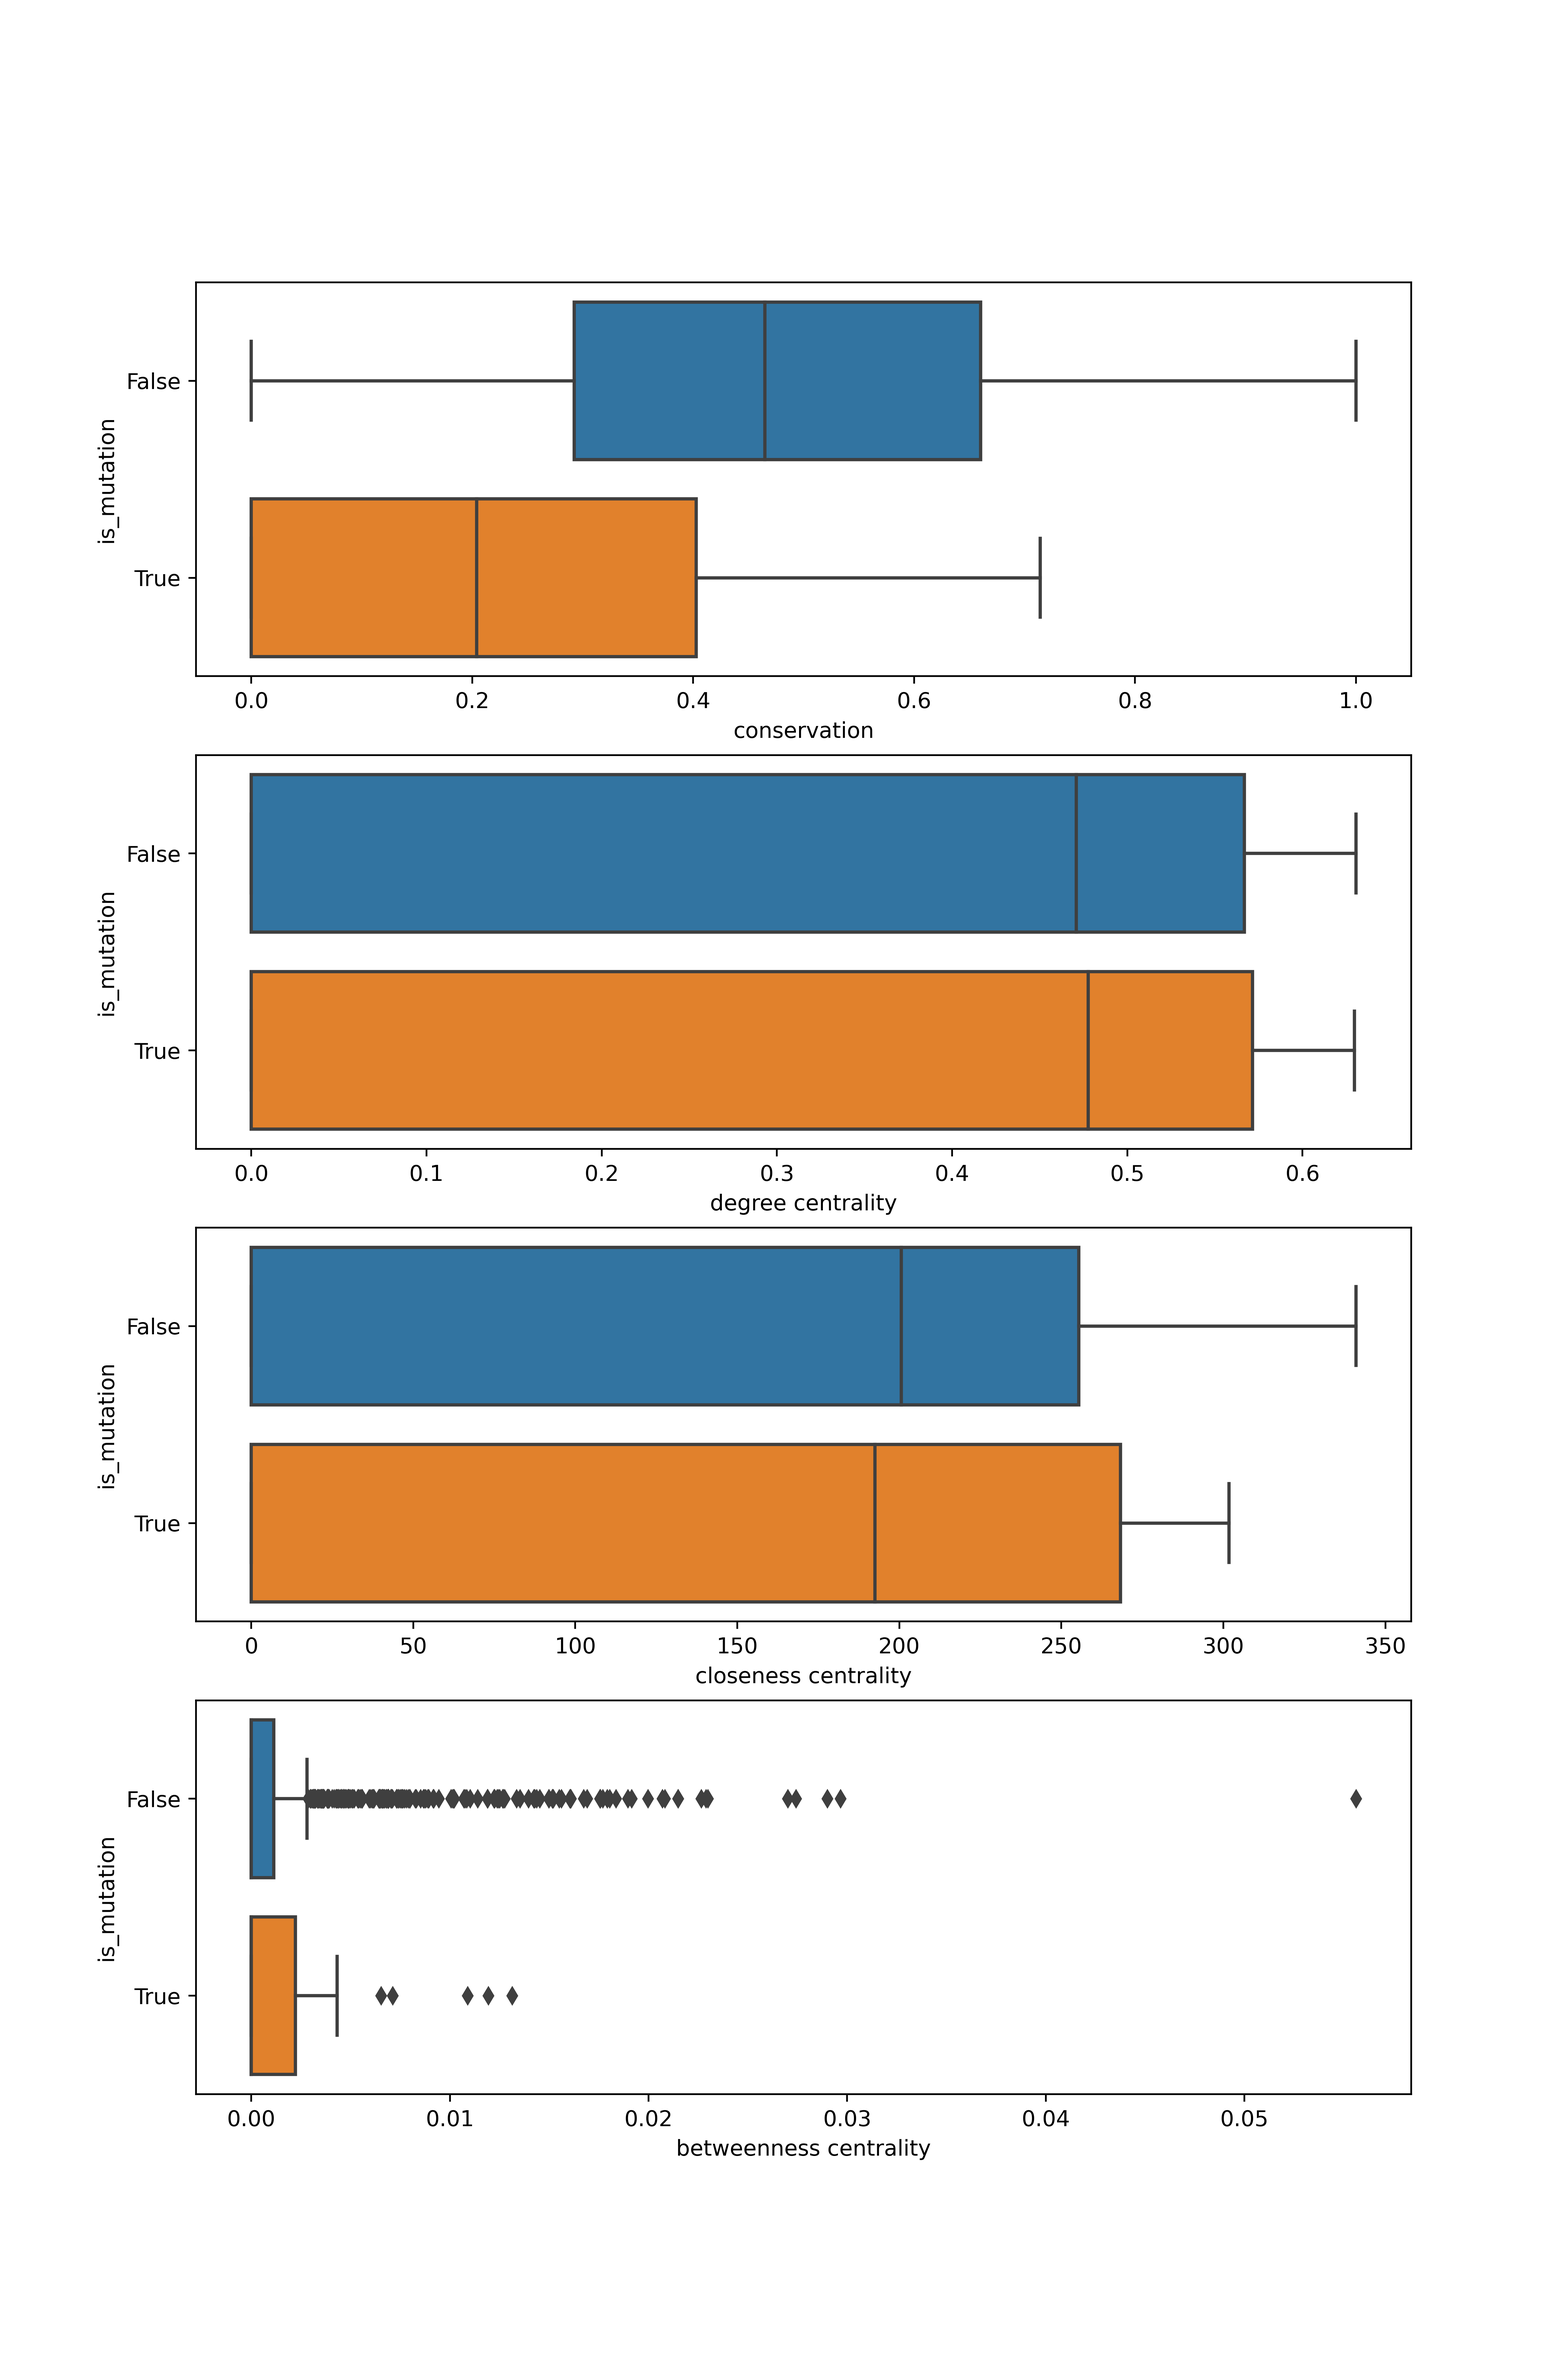
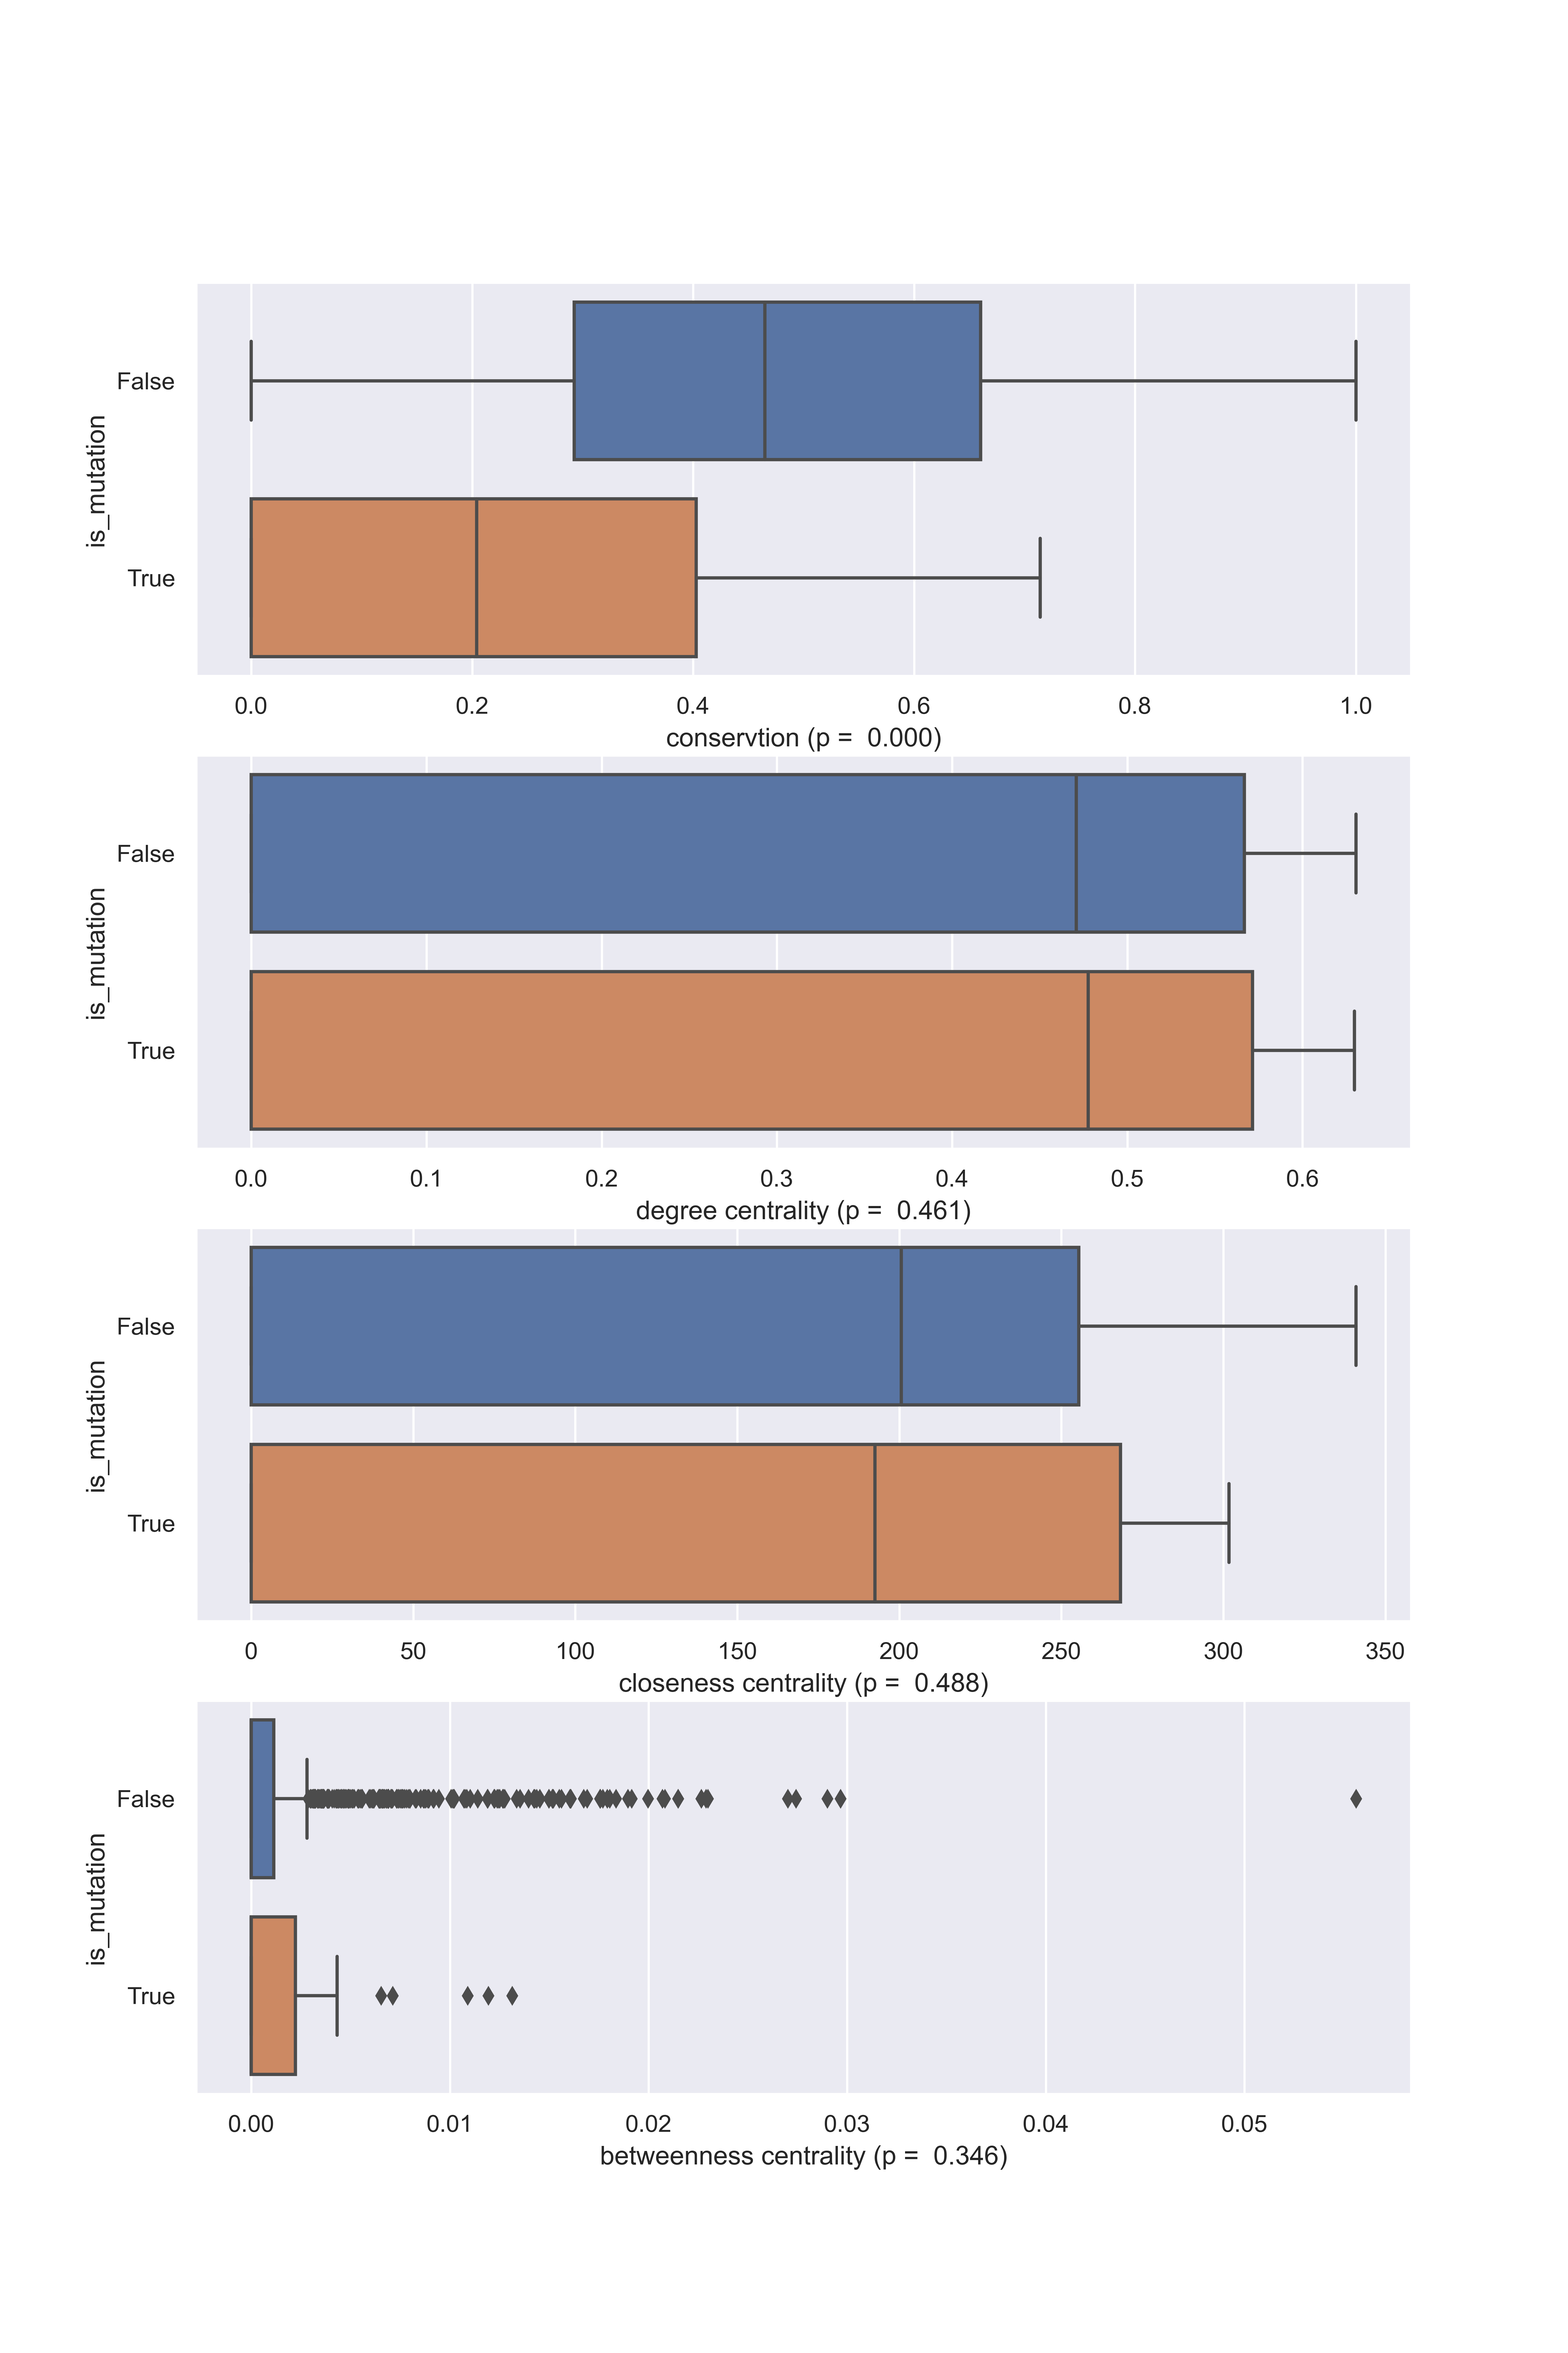
update

diff --git a/v2/output_procon_analysis.py b/v2/output_procon_analysis.py
@@ -11,6 +11,7 @@ import matplotlib.pyplot as plt
 import matplotlib.ticker as mticker
 import os
 from scipy.special import comb
+from scipy.stats import mannwhitneyu
 from itertools import combinations, permutations
 from collections import defaultdict
 from brokenaxes import brokenaxes
@@ -25,6 +26,8 @@ logconfig.setup_logging()
 log = logging.getLogger("cov2")
 
 AA = ['-', 'C', 'F', 'I', 'L', 'M', 'V', 'W', 'Y', 'A', 'T', 'D', 'E', 'G', 'P', 'N', 'Q', 'S', 'H', 'R', 'K']
+
+sns.set()
 
 
 class AnalysisMutationGroup:
@@ -191,13 +194,60 @@ class ProConNetwork:
 
     def _plot_degree_distribuition(self, aas):
         # 度分布 degree
-        dh = nx.degree_histogram(self.G)
-        log.debug("dh = %s", dh)
-        x = list(range(len(dh)))
-        y = np.array(dh) / sum(dh)
+        # 使用边的权重的平均值作为度
+        degrees = {}
+        # 遍历节点
+        for n, nbrs in self.G.adj.items():
+            # n 节点，nbrs 邻居节点
+            wts = []
+            for nbr, eattr in nbrs.items():
+                # nbr 邻居节点，eatter 边属性
+                wt = eattr["weight"]
+                wts.append(wt)
+            if wts:
+                avg_wt = np.mean(wts)
+            else:
+                avg_wt = 0.0
+            # degrees.append(avg_wt)
+            degrees[n] = avg_wt
+        degrees: pd.Series = pd.Series(degrees)
+        log.debug("degrees = %s", degrees)
+        log.debug("max(degrees) = %s", max(degrees))
+        log.debug("min(degrees) = %s", min(degrees))
+        log.debug("np.mean(degrees) = %s", np.mean(degrees))
+        # log.debug("pd.qcut(degrees) = %s", pd.cut(degrees, np.arange(0, 0.7, 0.01), right=False))
+        cut_split = np.arange(0, 0.7, 0.1)
+        degrees_distribution: pd.Series = pd.cut(degrees.values, cut_split, right=False)
+        degrees_distribution = degrees_distribution.value_counts()
+        degrees_distribution = degrees_distribution / len(degrees)
+        log.debug("sum(degrees_distribution) = %s", sum(degrees_distribution))
+        # 绘图
         fig: plt.Figure
-        axs: List[plt.Axes]
-        fig, axs = plt.subplots(2, 1)
+        axes: List[plt.Axes]
+        fig, axes = plt.subplots(1, 2, figsize=(15, 7.5))
+        degrees_distribution.plot.bar(ax=axes[0])
+        axes[0].set_title("degree distribution")
+        axes[0].set_xticklabels(degrees_distribution.index, rotation=0)
+
+        # 变异的分布
+        aas_degrees = degrees[aas].sort_index()
+        aas_degrees.to_csv(os.path.join(self.data_dir, "aas_degree_distribution.csv"))
+        aas_degrees_distribution = pd.cut(aas_degrees.values, cut_split, right=False).value_counts() / len(degrees)
+        log.debug("aas_degrees_distribution = %s", aas_degrees_distribution)
+        aas_degrees_distribution.plot.bar(ax=axes[1])
+        axes[1].set_title("degree distribution of mutations")
+        axes[1].set_xticklabels(aas_degrees_distribution.index, rotation=0)
+        # log.debug("aas_degrees.sort_values() = %s", aas_degrees.sort_values())
+
+        fig.show()
+        fig.savefig(os.path.join(self.data_dir, f"度分布.png"), dpi=300)
+        # dh = nx.degree_histogram(self.G)
+        # log.debug("dh = %s", dh)
+        # x = list(range(len(dh)))
+        # y = np.array(dh) / sum(dh)
+        # fig: plt.Figure
+        # axs: List[plt.Axes]
+        # fig, axs = plt.subplots(2, 1)
         # sps1, sps2 = GridSpec(2, 1)
         # fig = plt.figure()
         # hspace 双斜线间隔
@@ -212,33 +262,33 @@ class ProConNetwork:
         # bax_axes_top.get_ymajorticklabels
         # bax = brokenaxes(ylims=((0, 0.02), (0.8, 0.9)), hspace=0.2, subplot_spec=sps1, fig=fig, )
         # axs = [bax, plt.subplot(sps2)]
-        axs[0].plot(x[1:], y[1:])
-        axs[0].set_ylabel("degree distribution")
-        # axs[0].plot(x, y)
-        axs[1].loglog(x, y)
-        axs[1].set_ylabel("degree distribution")
-        # 将变异的点标注在度分布图中
-        ax_0_right: plt.Axes = axs[0].twinx()  # 双坐标轴
-        ax_0_right.set_ylabel("important mutations count")
-        ax_1_right: plt.Axes = axs[1].twinx()
-        ax_1_right.set_ylabel("important mutations count")
-        degree2count = dict(zip(x[1:], y[1:]))
-        count_degree_aa = defaultdict(int)
-        for aa in aas:
-            # 拿到节点，并计算度
-            node = self.G.nodes[aa]
-            degree = self.G.degree[aa]
-            # axs[0].annotate(aa, (degree, degree2count[degree]))
-            # axs[0].bar(degree, degree2count[degree])
-            if degree == 0:
-                continue
-            count_degree_aa[degree] += 1
-        # for degree, count in count_degree_aa.items():
-        ax_0_right.bar(count_degree_aa.keys(), count_degree_aa.values(), color="green")
-        ax_1_right.bar(count_degree_aa.keys(), count_degree_aa.values(), color="green")
-
-        fig.show()
-        fig.savefig(os.path.join(self.data_dir, f"度分布.png"), dpi=300)
+        # axs[0].plot(x[1:], y[1:])
+        # axs[0].set_ylabel("degree distribution")
+        # # axs[0].plot(x, y)
+        # axs[1].loglog(x, y)
+        # axs[1].set_ylabel("degree distribution")
+        # # 将变异的点标注在度分布图中
+        # ax_0_right: plt.Axes = axs[0].twinx()  # 双坐标轴
+        # ax_0_right.set_ylabel("important mutations count")
+        # ax_1_right: plt.Axes = axs[1].twinx()
+        # ax_1_right.set_ylabel("important mutations count")
+        # degree2count = dict(zip(x[1:], y[1:]))
+        # count_degree_aa = defaultdict(int)
+        # for aa in aas:
+        #     # 拿到节点，并计算度
+        #     node = self.G.nodes[aa]
+        #     degree = self.G.degree[aa]
+        #     # axs[0].annotate(aa, (degree, degree2count[degree]))
+        #     # axs[0].bar(degree, degree2count[degree])
+        #     if degree == 0:
+        #         continue
+        #     count_degree_aa[degree] += 1
+        # # for degree, count in count_degree_aa.items():
+        # ax_0_right.bar(count_degree_aa.keys(), count_degree_aa.values(), color="green")
+        # ax_1_right.bar(count_degree_aa.keys(), count_degree_aa.values(), color="green")
+        #
+        # fig.show()
+        # fig.savefig(os.path.join(self.data_dir, f"度分布.png"), dpi=300)
 
     def _plot_node_box(self, aas):
         nodes_size = {node: self.G.nodes[node]["size"] for node in self.G.nodes}
@@ -248,13 +298,26 @@ class ProConNetwork:
         # node_data = node_data.reset_index()  # 调整索引
         node_data["is_mutation"] = node_data.index.map(lambda x: x in aas)
 
+        def cal_p(data: pd.Series, bo: pd.Series):
+            x = data[bo].to_list()
+            y = data[bo.apply(lambda x: not x)].to_list()
+            p = mannwhitneyu(x, y).pvalue
+            return p
         fig: plt.Figure
         axes: List[plt.Axes]
         fig, axes = plt.subplots(4, 1, figsize=(10, 15))
         sns.boxplot(x=node_data["conservation"], y=node_data["is_mutation"], orient="h", ax=axes[0], )
+        p = cal_p(node_data["conservation"], node_data["is_mutation"])
+        axes[0].set_xlabel(f"conservtion (p = {p: .3f})")
         sns.boxplot(x=node_data["degree centrality"], y=node_data["is_mutation"], orient="h", ax=axes[1], )
+        p = cal_p(node_data["degree centrality"], node_data["is_mutation"])
+        axes[1].set_xlabel(f"degree centrality (p = {p: .3f})")
         sns.boxplot(x=node_data["closeness centrality"], y=node_data["is_mutation"], orient="h", ax=axes[2])
+        p = cal_p(node_data["closeness centrality"], node_data["is_mutation"])
+        axes[2].set_xlabel(f"closeness centrality (p = {p: .3f})")
         sns.boxplot(x=node_data["betweenness centrality"], y=node_data["is_mutation"], orient="h", ax=axes[3])
+        p = cal_p(node_data["betweenness centrality"], node_data["is_mutation"])
+        axes[3].set_xlabel(f"betweenness centrality (p = {p: .3f})")
         plt.show()
         fig.savefig(os.path.join(self.data_dir, "boxplot.png"), dpi=500)
         log.debug("node_data = %s", node_data)
@@ -296,37 +359,46 @@ class ProConNetwork:
         fig.savefig(os.path.join(self.data_dir, "edge_boxplot.png"), dpi=500)
 
     def _plot_procon_distribution(self,):
-        type1_info = self.type1["information"]
-        type2_info = self.type2["info"]
-
-        type1_info_count = pd.cut(type1_info, np.arange(0, 4, 0.5)).value_counts().sort_index()
-        type2_info_count = pd.cut(type2_info, np.arange(0, 350, 10)).value_counts().sort_index()
-        fig: plt.Figure
-        axes: List[plt.Axes]
-        fig, axes = plt.subplots(1, 2, figsize=(20, 10))
         log.debug("self.type1.min() = %s", self.type1["information"].min())
         log.debug("self.type1.max() = %s", self.type1["information"].max())
         log.debug("self.type2.min() = %s", self.type2["info"].min())
         log.debug("self.type2.max() = %s", self.type2["info"].max())
-        axes[0].plot(range(len(type1_info_count)), type1_info_count.values)
-        axes[0].xaxis.set_major_locator(mticker.FixedLocator(range(len(type1_info_count))))
-        axes[0].set_xticklabels(type1_info_count.index.to_list())
-        axes[0].set_xlabel("conservation score")
-        axes[0].set_ylabel("count")
-        axes[1].plot(range(len(type2_info_count)), type2_info_count.values)
-        axes[1].xaxis.set_major_locator(mticker.FixedLocator(range(len(type2_info_count))))
-        axes[1].set_xticklabels(type2_info_count.index.to_list(), rotation=90)
-        axes[1].set_xlabel("co-conservation score")
-        axes[1].set_ylabel("count")
-        fig.show()
+        type1_info = self.type1["info_norm"]
+        type2_info = self.type2["info_norm"]
+
+        cut_list = np.arange(0, 1.1, 0.1).tolist()
+        log.debug("cut_list = %s", cut_list)
+        type1_info_count = pd.cut(type1_info, cut_list, ).value_counts().sort_index() / len(type1_info)
+        type2_info_count = pd.cut(type2_info, cut_list, ).value_counts().sort_index() / len(type2_info)
+        type1_info_count.plot.bar()
+        type2_info_count.plot.bar()
+        plot_data = pd.DataFrame([
+            type1_info_count.to_list() + type2_info_count.to_list(),
+            ["conservation"] * len(type1_info_count) + ["co-conservation"] * len(type2_info_count),
+            type1_info_count.index.to_list() + type2_info_count.index.to_list(),
+            # ])
+        ], index=["proportion", "type", "score"]).T
+        # fig: plt.Figure = plt.figure()
+        # ax: plt.Axes = fig.add_subplot()
+        fig = sns.catplot(
+            kind="bar",
+            x="type",
+            y="proportion",
+            hue="score",
+            data=plot_data,
+            height=10,
+        )
+        plt.show()
         fig.savefig(os.path.join(self.data_dir, "procon distribution.png"), dpi=500)
 
     def analysisG(self, aas: list, groups):
-        aas = [self._aa2position(aa) for aa in aas]
+        aas = [self._aa2position(aa) for aa in aas if aa]
+        aas = list(set(aas))
+        log.debug("aas = %s", aas)
 
         self._plot_procon_distribution()  # 分数分布图
         self._plot_degree_distribuition(aas)  # 度分布
-        # self._plot_node_box(aas, )  # 箱线图：中心性 + 保守性
+        self._plot_node_box(aas, )  # 箱线图：中心性 + 保守性
         # self._plot_edge_box(aas, groups)  # 共保守性
 
 
